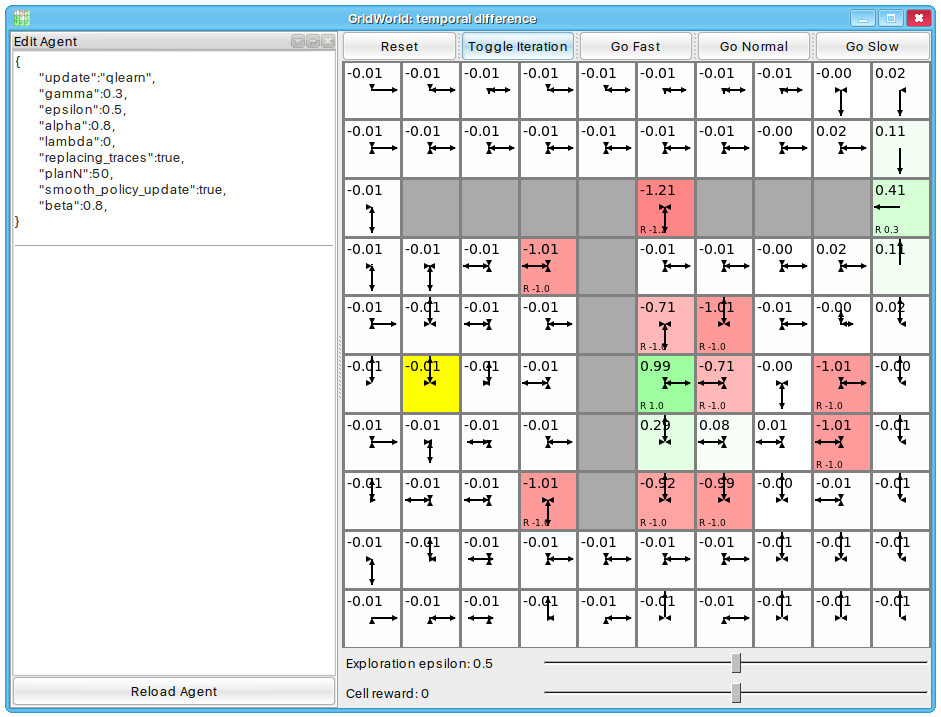
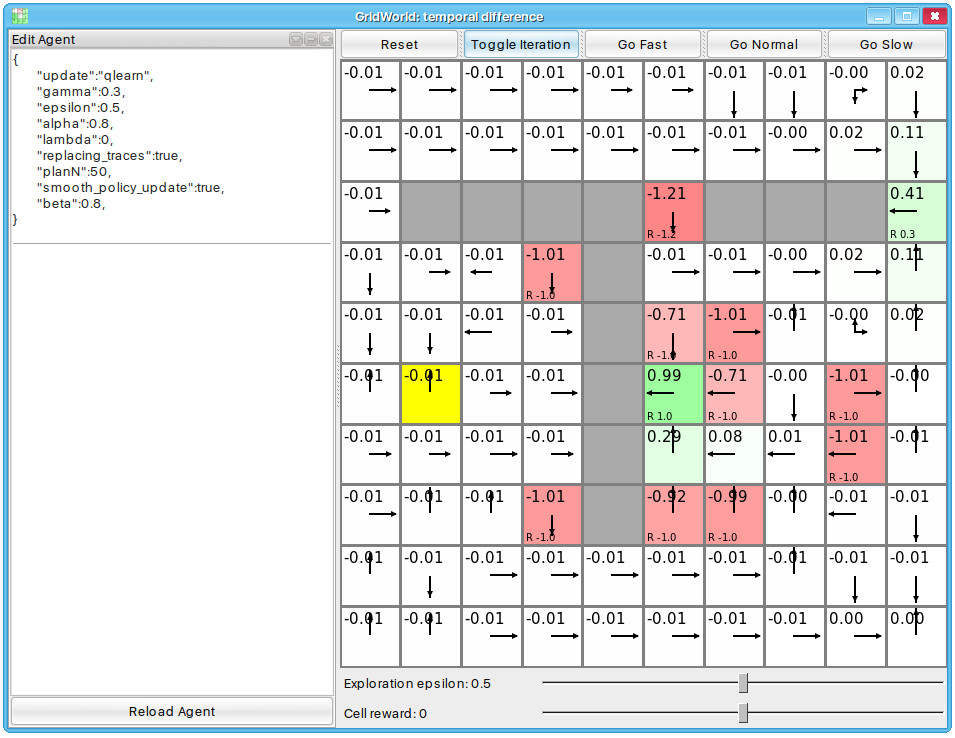
GridWorld drawer fix

Changed region(s): [[0.0, 0.0, 1.0, 1.0]]

diff --git a/src/ConvNetCtrl/GridWorldCtrl.cpp b/src/ConvNetCtrl/GridWorldCtrl.cpp
@@ -112,13 +112,13 @@ void GridWorldCtrl::Paint(Draw& w) {
 			// update policy arrows
 			for (int a = 0; a < 4; a++) {
 				double prob = agent->poldist[a][s];
-				if (prob <= 0.0) continue;
+				if (prob <= 0.2) continue;
 				
 				double ss = cs/2 * prob * 0.9;
 				int nx, ny, x1,y1, xtrim = 1, ytrim = 1;
 				tipvec.SetCount(0);
 				if (a == ACT_LEFT)	{
-					xtrim = 0;
+					xtrim = -1;
 					nx=-ss;				ny=0;		x1 = x0+cs/2+nx;	y1 = y0+cs/2+ny;
 					tipvec << Point(x1, y1) << Point(x1+tip2, y1-tip) << Point(x1+tip2, y1+tip);
 				}
@@ -127,7 +127,7 @@ void GridWorldCtrl::Paint(Draw& w) {
 					tipvec << Point(x1, y1) << Point(x1+tip, y1+tip2) << Point(x1-tip, y1+tip2);
 				}
 				else if (a == ACT_UP)	{
-					ytrim = 0;
+					ytrim = -1;
 					nx=0;				ny=ss;		x1 = x0+cs/2+nx;	y1 = y0+cs/2+ny;
 					tipvec << Point(x1, y1) << Point(x1+tip, y1-tip2) << Point(x1-tip, y1-tip2);
 				}
